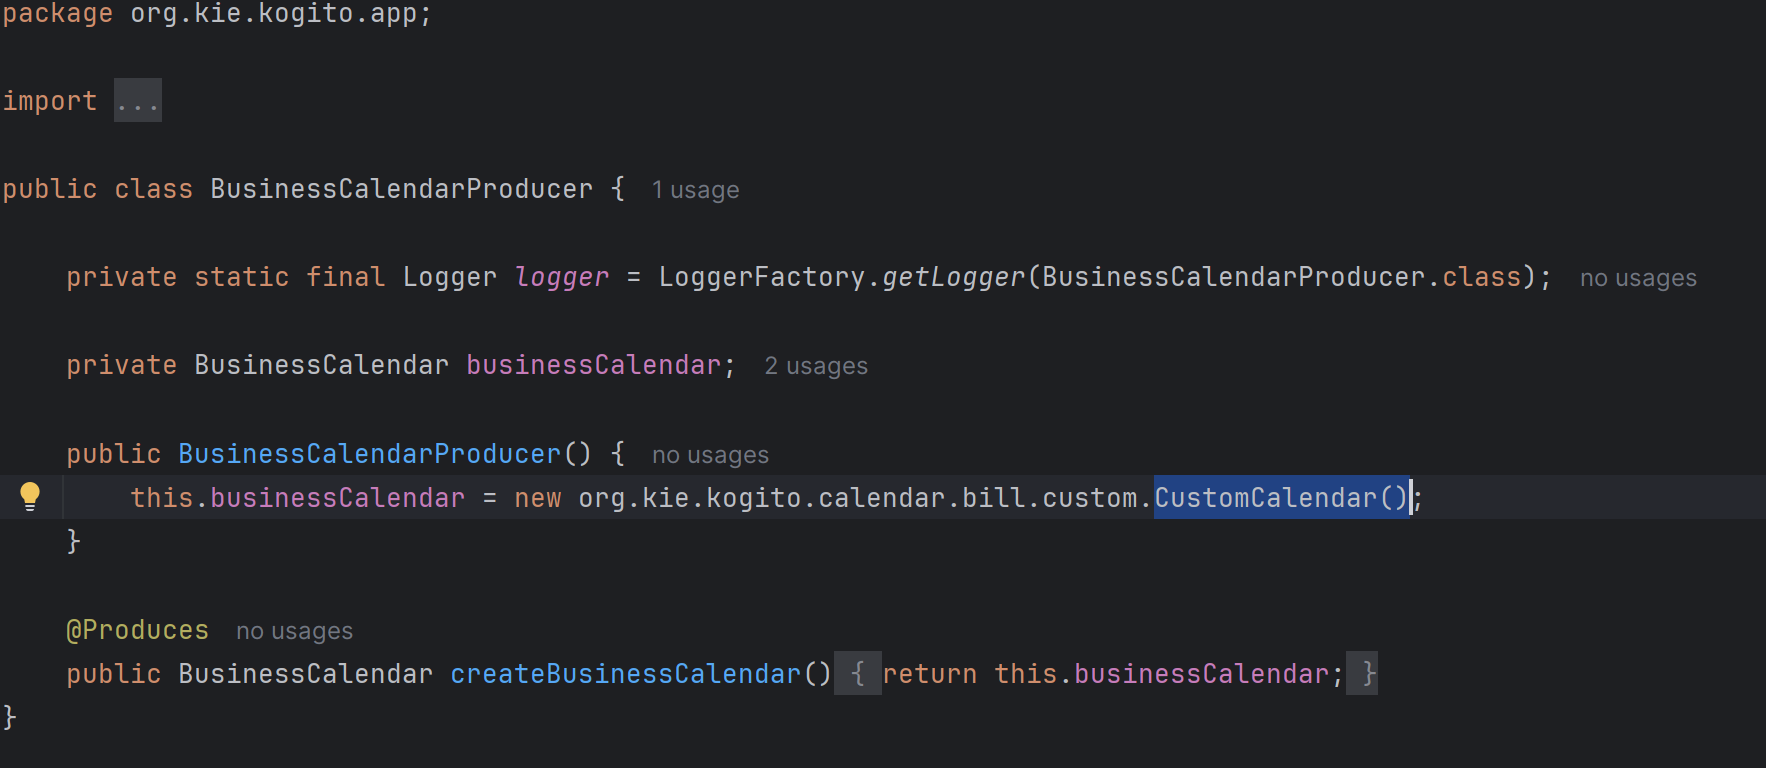
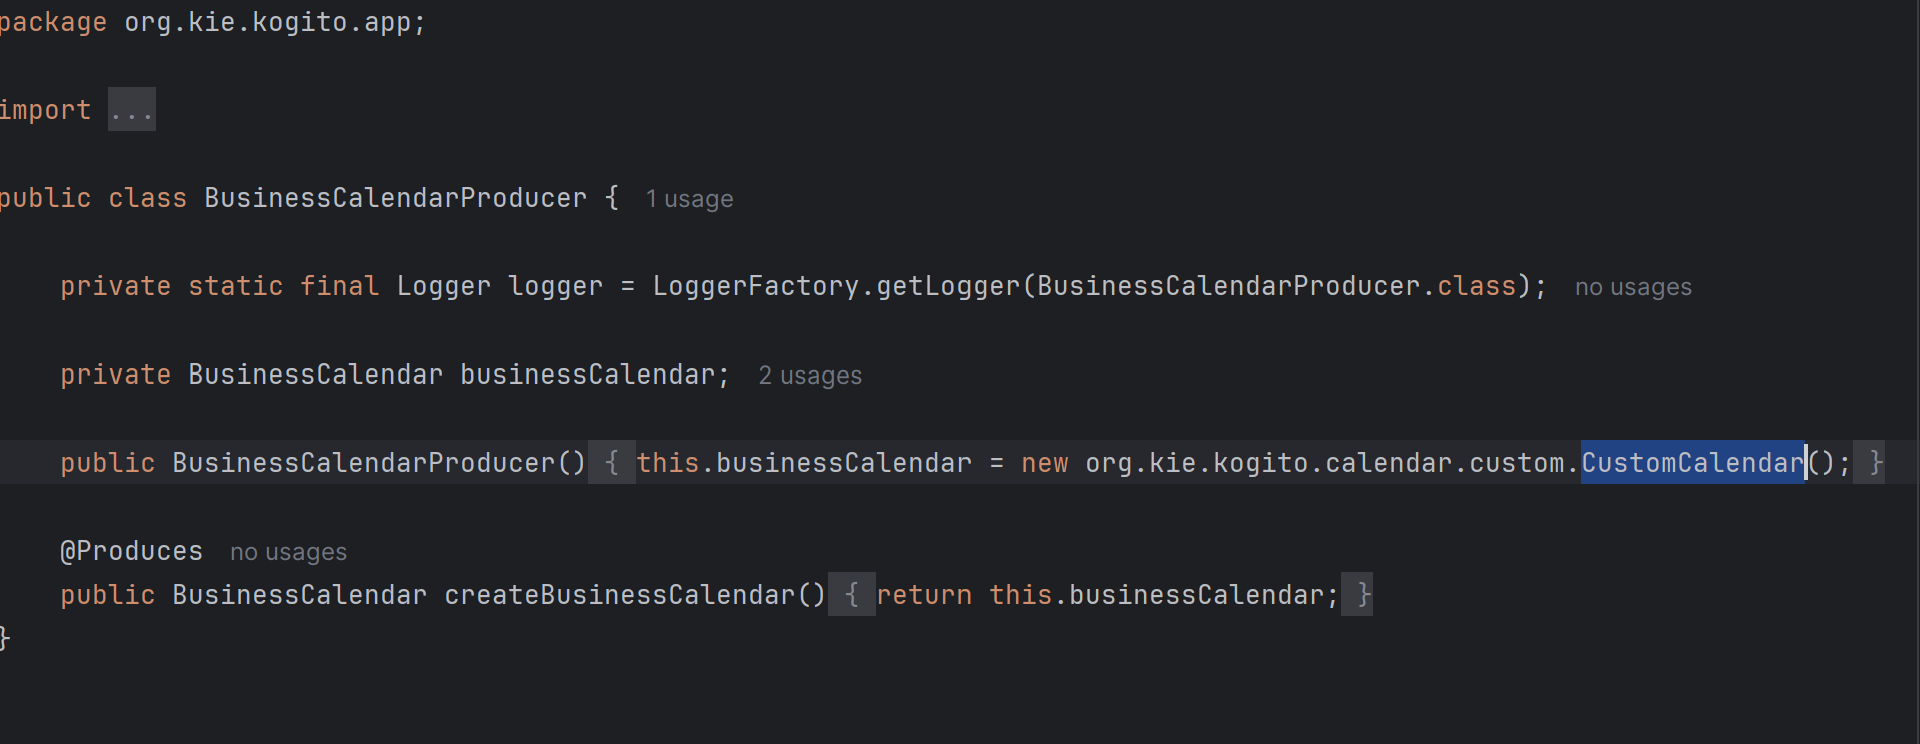
[Incubator-kie-issues#1790] Business Calendar Example(s) Readme Fix (#2080)
* readme_fix

* formatting_update

* properties_update

* properties_update2

* properties_update2

* typo_fix2

diff --git a/kogito-quarkus-examples/process-business-calendar-quarkus-example/README.md b/kogito-quarkus-examples/process-business-calendar-quarkus-example/README.md
@@ -131,11 +131,7 @@ curl -X GET http://localhost:8080/BusinessCalendarCreditBill/{id} \
 ## Understanding calendar.properties
 **Default Behavior**: If you do not input custom values in a calendar.properties file, the system will use the following default settings:
 
-* **business.days.per.week** defaults to 5, meaning only Monday to Friday are considered working days.
-
-* **business.hours.per.day** defaults to 8, representing an 8-hour workday.
-
-* **business.start.hour** defaults to 9, and business.end.hour defaults to 17 (i.e.,9 AM to 5 PM workday).
+* **business.start.hour** defaults to 9, and **business.end.hour** defaults to 17 (i.e.,9 AM to 5 PM workday).
 
 * **business.weekend.days** defaults to Saturday and Sunday (Sunday-1, Monday-2, Tuesday-3, Wednesday-4, Thursday-5, Friday-6, Saturday-7).
 
@@ -143,7 +139,13 @@ curl -X GET http://localhost:8080/BusinessCalendarCreditBill/{id} \
 
 * **business.holidays** by default will be considered empty, meaning no predefined holidays unless specified, if specified, it should be in the format defined by business.holiday.date.format, Holidays can be specified as individual dates (e.g., 2024-12-25,2024-12-31) or as a range of dates (e.g., 2024-11-12:2024-11-14).
 
-* **business.cal.timezone** defaults to the system’s default timezone, if configured, valid time-zone as per Valid timezone as per https://docs.oracle.com/javase/7/docs/api/java/util/TimeZone.html should be specfied.
+* **business.cal.timezone** defaults to the system’s default timezone, if configured, valid time-zone as per Valid timezone as per https://docs.oracle.com/javase/7/docs/api/java/util/TimeZone.html should be specified.
+
+**Calculated Properties (Do not include in `calendar.properties` file)**:
+
+* **business.days.per.week**: calculated value, 7 - business.weekend.days.
+
+* **business.hours.per.day** : Calculated value, business.end.hour - business.start.hour.
 
 **Behavior**:
 * Considering the default properties as mentioned above, if a task is executed after working hours i.e., non-working hours (e.g., at 7 PM), the system will delay its execution until the start of the next working hour/working day (9 AM). For example, if a task timer is set to trigger at 7 PM on a Friday, it will not execute until 9 AM on Monday (assuming a standard 5-day workweek).
@@ -155,25 +157,21 @@ curl -X GET http://localhost:8080/BusinessCalendarCreditBill/{id} \
 ### Note: Important Guidelines for Configuring `calendar.properties`
 To override default values, configure calendar.properties file based on requirements. In order to ensure more aligned functionality, please follow the rules outlined below. Adhering to these guidelines will help ensure that tasks are executed as expected. Incorrect configurations may result in unintended behavior, so it's recommended to input accurate values.
 
-| Property                     | Valid Range                                                                                                            | Description                                                                                                                                                                                    |
-|------------------------------|------------------------------------------------------------------------------------------------------------------------|------------------------------------------------------------------------------------------------------------------------------------------------------------------------------------------------|
-| `business.start.hour`       | 0-23                                                                                                                   | Start hour of the workday                                                                                                                                                                      |
-| `business.end.hour`         | 0-23                                                                                                                   | End hour of the workday                                                                                                                                                                        |
-| `business.hours.per.day`    | 1-24                                                                                                                   | Total working hours in a day                                                                                                                                                                   |
-| `business.days.per.week`    | 1-7                                                                                                                    | Total working days per week                                                                                                                                                                    |
-| `business.weekend.days`     | 0-7                                                                                                                    | Days considered as weekends (e.g., 1 = Sunday, 7 = Saturday). In case you want to consider all the days as working days i.e., no weekend days, input 0 as value considering working days as 7. |
-| `business.holiday.date.format`       | (yyyy-MM-dd)                                                                                                           | List of holidays                                                                                                                                                                               |
-| `business.holidays`   | Dates aligned with business.holiday.date.format                                                                        | Date format for holidays                                                                                                                                                                       |
-| `business.cal.timezone`     | Valid timezone as per [Java TimeZone Documentation](https://docs.oracle.com/javase/7/docs/api/java/util/TimeZone.html) | Timezone for calculations                                                                                                                                                                      |
+| Property                     | Valid Range                                                                                                            | Description                                                                                                                                                                                      |
+|------------------------------|------------------------------------------------------------------------------------------------------------------------|--------------------------------------------------------------------------------------------------------------------------------------------------------------------------------------------------|
+| `business.start.hour`       | 0-23                                                                                                                   | Start hour of the workday                                                                                                                                                                        |
+| `business.end.hour`         | 0-23                                                                                                                   | End hour of the workday                                                                                                                                                                          |
+| `business.weekend.days`     | 0-7                                                                                                                    | Days considered as weekends (e.g., 1 = Sunday, 7 = Saturday). In case you want to consider all the days as working days i.e., no weekend days, input 0 as value considering working days as 7.   |
+| `business.holiday.date.format`       | (yyyy-MM-dd)                                                                                                           | List of holidays                                                                                                                                                                                 |
+| `business.holidays`   | Dates aligned with business.holiday.date.format                                                                        | Date format for holidays                                                                                                                                                                         |
+| `business.cal.timezone`     | Valid timezone as per [Java TimeZone Documentation](https://docs.oracle.com/javase/7/docs/api/java/util/TimeZone.html) | Timezone for calculations                                                                                                                                                                        |
 
 ### Example of custom calendar.properties
 ```Properties
 business.end.hour=23
-business.hours.per.day=24
 business.start.hour=0
 business.holiday.date.format=yyyy-MM-dd
 business.holidays=2024-10-30
-business.days.per.week=5
 business.weekend.days=6,7
 business.cal.timezone=America/Toronto
 ```
@@ -299,14 +297,14 @@ This guide explains how to implement a custom business calendar allowing full fl
 ### Creating a Custom Business Calendar 
 
 - By default, calendar.properties is used to configure default business calendar. 
-- If a custom business calendar has to be implemented, calendar.properties should NOT exist. Instead, add the following property to application.properties: ```kogito.processes.businessCalendar=org.kie.kogito.calendar.CustomCalendar```
+- If a custom business calendar has to be implemented, calendar.properties should NOT exist. Instead, add the following property to application.properties: ```kogito.processes.businessCalendar=org.kie.kogito.calendar.custom.CustomCalendar```
 
 **Steps**
-1. **Navigate to**: *kogito-quarkus-examples/process-business-calendar-quarkus-example/src/main/java/org/kie/kogito/calendar*
+1. **Navigate to**: *kogito-quarkus-examples/process-business-calendar-quarkus-example/src/main/java/org/kie/kogito/calendar/custom* (create the custom folder if it does not exist).
 2. **Create a new custom business calendar class** (e.g., CustomCalendar.java).
-3. Ensure it implements the BusinessCalendar interface.The implementation should be a concrete class(not an interface or abstract class).
-4. Set the property ```kogito.processes.businessCalendar=org.kie.kogito.calendar.custom.CustomCalendar```  in application.properties to the fully qualified class name of the custom business calendar.
-5. To test the created custom business calendar with property set in application.properties, calendar.properties should not exist.
+3. Ensure it implements the `BusinessCalendar` interface.The implementation should be a concrete class(not an interface or abstract class).
+4. Set the property ```kogito.processes.businessCalendar=org.kie.kogito.calendar.custom.CustomCalendar```  in `application.properties` to the fully qualified class name of the custom business calendar.
+5. Remove the `calendar.properties` file within `src/main/resources` to allow the `CustomCalendar` class to be registered instead of the default `BusinessCalendarImpl` provided out of the box.
 
 
 
@@ -328,7 +326,8 @@ public class CustomCalendar implements BusinessCalendar {
     @Override
     public long calculateBusinessTimeAsDuration(String timeExpression) {
         // Implement custom logic to calculate business time duration
-        return 0;
+      // Note:The returned long value is in milliseconds. Duration can be set at least 1000 ms or longer to prevent immediate execution.
+        return 1000;
     }
 
     @Override

diff --git a/kogito-springboot-examples/process-business-calendar-springboot-example/README.md b/kogito-springboot-examples/process-business-calendar-springboot-example/README.md
@@ -125,11 +125,7 @@ curl -X GET http://localhost:8080/BusinessCalendarCreditBill/{id} \
 ## Understanding calendar.properties
 **Default Behavior**: If you do not input custom values in a calendar.properties file, the system will use the following default settings:
 
-* **business.days.per.week** defaults to 5, meaning only Monday to Friday are considered working days.
-
-* **business.hours.per.day** defaults to 8, representing an 8-hour workday.
-
-* **business.start.hour** defaults to 9, and business.end.hour defaults to 17 (i.e.,9 AM to 5 PM workday).
+* **business.start.hour** defaults to 9, and **business.end.hour** defaults to 17 (i.e.,9 AM to 5 PM workday).
 
 * **business.weekend.days** defaults to Saturday and Sunday (Sunday-1, Monday-2, Tuesday-3, Wednesday-4, Thursday-5, Friday-6, Saturday-7).
 
@@ -137,7 +133,13 @@ curl -X GET http://localhost:8080/BusinessCalendarCreditBill/{id} \
 
 * **business.holidays** by default will be considered empty, meaning no predefined holidays unless specified, if specified, it should be in the format defined by business.holiday.date.format, Holidays can be specified as individual dates (e.g., 2024-12-25,2024-12-31) or as a range of dates (e.g., 2024-11-12:2024-11-14).
 
-* **business.cal.timezone** defaults to the system’s default timezone, if configured, valid time-zone as per Valid timezone as per https://docs.oracle.com/javase/7/docs/api/java/util/TimeZone.html should be specfied.
+* **business.cal.timezone** defaults to the system’s default timezone, if configured, valid time-zone as per Valid timezone as per https://docs.oracle.com/javase/7/docs/api/java/util/TimeZone.html should be specified.
+
+**Calculated Properties** (Do not include in `calendar.properties` file):
+
+* **business.days.per.week**: calculated value, 7 - business.weekend.days.
+
+* **business.hours.per.day** : Calculated value, business.end.hour - business.start.hour.
 
 **Behavior**:
 * Considering the default properties as mentioned above, if a task is executed after working hours i.e., non-working hours (e.g., at 7 PM), the system will delay its execution until the start of the next working hour/working day (9 AM). For example, if a task timer is set to trigger at 7 PM on a Friday, it will not execute until 9 AM on Monday (assuming a standard 5-day workweek).
@@ -153,8 +155,6 @@ To override default values, configure calendar.properties file based on requirem
 |------------------------------|------------------------------------------------------------------------------------------------------------------------|------------------------------------------------------------------------------------------------------------------------------------------------------------------------------------------------|
 | `business.start.hour`       | 0-23                                                                                                                   | Start hour of the workday                                                                                                                                                                      |
 | `business.end.hour`         | 0-23                                                                                                                   | End hour of the workday                                                                                                                                                                        |
-| `business.hours.per.day`    | 1-24                                                                                                                   | Total working hours in a day                                                                                                                                                                   |
-| `business.days.per.week`    | 1-7                                                                                                                    | Total working days per week                                                                                                                                                                    |
 | `business.weekend.days`     | 0-7                                                                                                                    | Days considered as weekends (e.g., 1 = Sunday, 7 = Saturday). In case you want to consider all the days as working days i.e., no weekend days, input 0 as value considering working days as 7. |
 | `business.holiday.date.format`       | (yyyy-MM-dd)                                                                                                           | List of holidays                                                                                                                                                                               |
 | `business.holidays`   | Dates aligned with business.holiday.date.format                                                                        | Date format for holidays                                                                                                                                                                       |
@@ -163,11 +163,9 @@ To override default values, configure calendar.properties file based on requirem
 ### Example of custom calendar.properties
 ```Properties
 business.end.hour=23
-business.hours.per.day=24
 business.start.hour=0
 business.holiday.date.format=yyyy-MM-dd
 business.holidays=2024-10-30
-business.days.per.week=5
 business.weekend.days=6,7
 business.cal.timezone=America/Toronto
 ```
@@ -290,14 +288,14 @@ This guide explains how to implement a custom business calendar allowing full fl
 ### Creating a Custom Business Calendar
 
 - By default, calendar.properties is used to configure default business calendar.
-- If a custom business calendar has to be implemented, calendar.properties should NOT exist. Instead, add the following property to application.properties: ```kogito.processes.businessCalendar=org.kie.kogito.calendar.CustomCalendar```
+- If a custom business calendar has to be implemented, calendar.properties should NOT exist. Instead, add the following property to application.properties: ```kogito.processes.businessCalendar=org.kie.kogito.calendar.custom.CustomCalendar```
 
 **Steps**
-1. **Navigate to**: *kogito-quarkus-examples/process-business-calendar-quarkus-example/src/main/java/org/kie/kogito/calendar*
+1. **Navigate to**: *kogito-springboot-examples/process-business-calendar-quarkus-example/src/main/java/org/kie/kogito/calendar/custom* (create the custom folder if it does not exist).
 2. **Create a new custom business calendar class** (e.g., CustomCalendar.java).
-3. Ensure it implements the BusinessCalendar interface.The implementation should be a concrete class(not an interface or abstract class).
-4. Set the property ```kogito.processes.businessCalendar=org.kie.kogito.calendar.custom.CustomCalendar```  in application.properties to the fully qualified class name of the custom business calendar.
-5. To test the created custom business calendar with property set in application.properties, calendar.properties should not exist.
+3. Ensure it implements the `BusinessCalendar` interface.The implementation should be a concrete class(not an interface or abstract class).
+4. Set the property ```kogito.processes.businessCalendar=org.kie.kogito.calendar.custom.CustomCalendar```  in `application.properties` to the fully qualified class name of the custom business calendar.
+5. Remove the `calendar.properties` file within `src/main/resources` to allow the `CustomCalendar class` to be registered instead of the default `BusinessCalendarImpl` provided out of the box.
 
 
 
@@ -319,7 +317,8 @@ public class CustomCalendar implements BusinessCalendar {
     @Override
     public long calculateBusinessTimeAsDuration(String timeExpression) {
         // Implement custom logic to calculate business time duration
-        return 0;
+      // Note:The returned long value is in milliseconds. Duration can be set at least 1000 ms or longer to prevent immediate execution.
+        return 1000;
     }
 
     @Override
